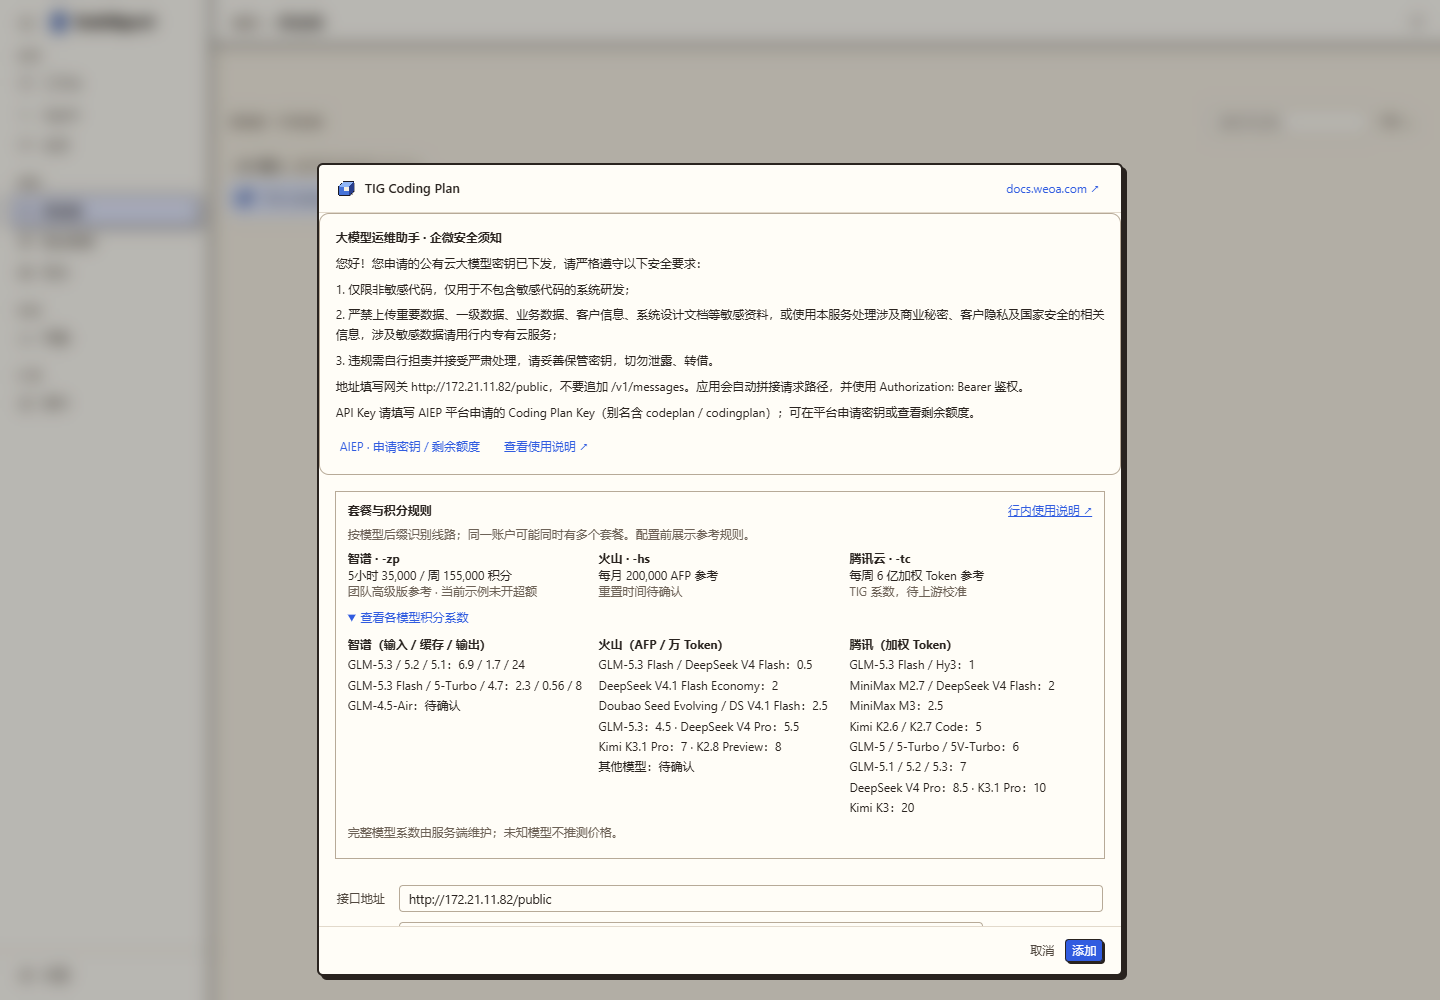
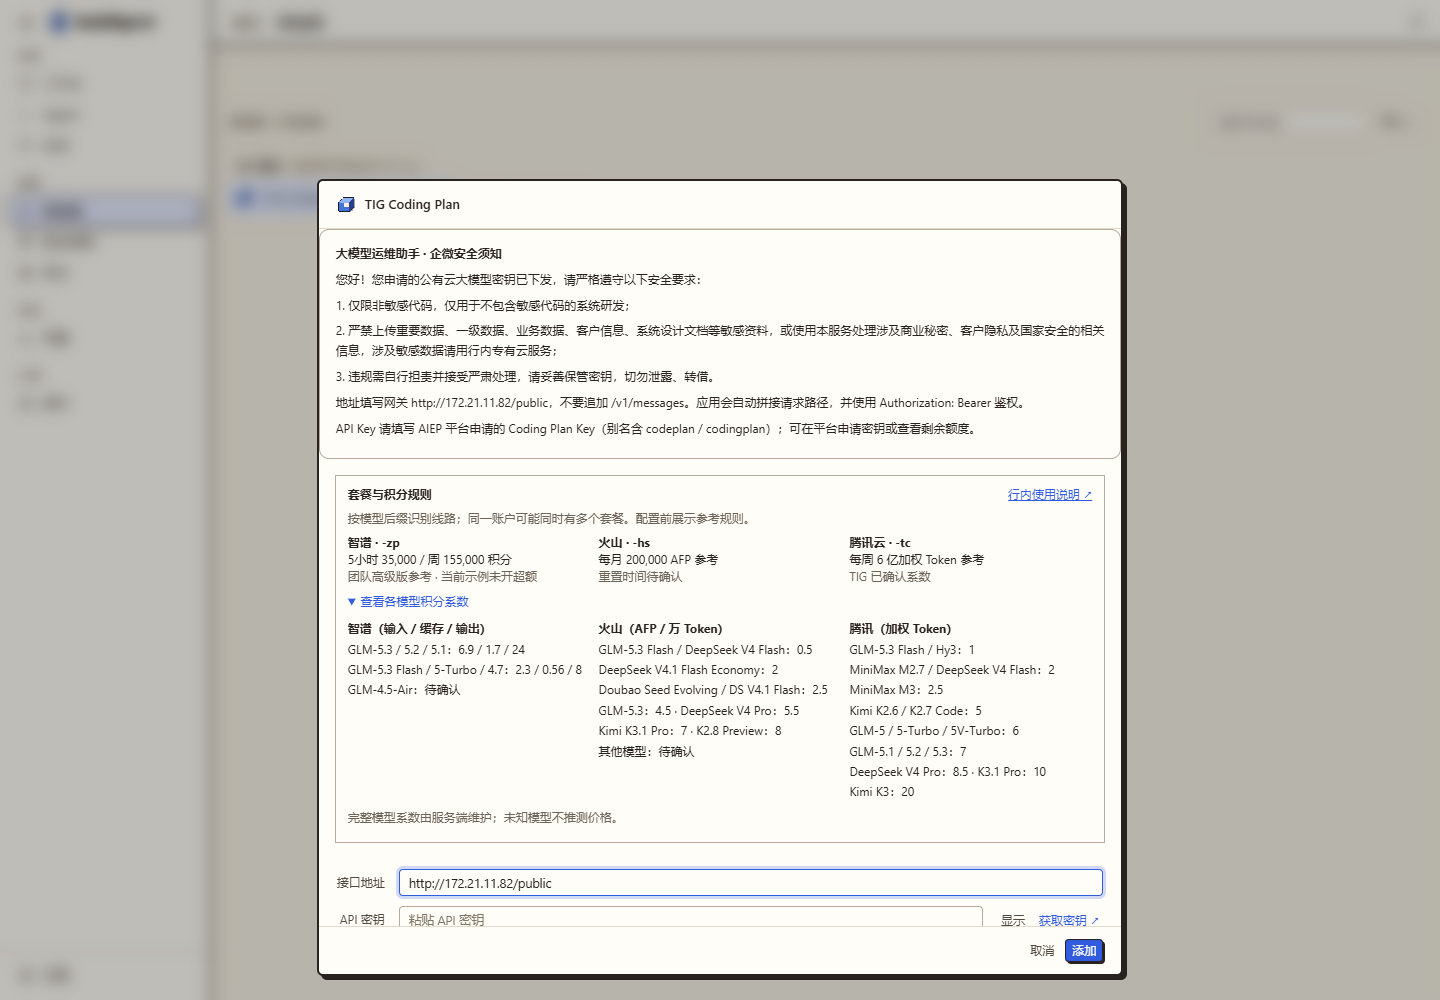
docs: clarify detected TIG model coefficients
Verified the preview states and coefficient expansion in Playwright. Tencent coefficients use the confirmed TIG table; screenshots contain demonstration data. No application build.

Changed region(s): [[0.2188, 0.155, 0.7812, 0.806], [0.2188, 0.806, 0.7812, 0.93], [0.6875, 0.465, 0.75, 0.527]]

diff --git a/design-preview/tig-plan-native-review.html b/design-preview/tig-plan-native-review.html
@@ -1,1 +1,1 @@
-<!doctype html><html lang="zh-CN"><head><meta charset="utf-8"><meta name="viewport" content="width=device-width,initial-scale=1"><title>TIG 配置审查 · 真实界面底稿</title><style>body{margin:0;background:#ebe7dd;color:#28221d;font:14px/1.5 "Microsoft YaHei",sans-serif}.toolbar{display:flex;align-items:center;gap:8px;flex-wrap:wrap;background:#fffcf6;border-bottom:1px solid #b7a995;padding:10px 16px;position:sticky;top:0;z-index:2}.toolbar strong{margin-right:8px}.toolbar button{background:transparent;border:1px solid #c6b8a6;border-radius:3px;padding:6px 10px;cursor:pointer;color:#25211c}.toolbar button.on{background:#315af2;color:white;border-color:#222;box-shadow:2px 2px 0 #222}.meta{margin-left:auto;font-size:12px;color:#6b6054}.canvas{max-width:1440px;margin:12px auto;position:relative;box-shadow:0 2px 10px #b6aa9b}.canvas img{display:block;width:100%;height:auto}.hotspot{position:absolute;left:23.5%;top:60.1%;width:22%;height:3%;border:0;background:transparent;cursor:pointer}.hotspot:focus-visible{outline:2px solid #315af2}.note{max-width:1440px;margin:8px auto 16px;color:#746657;font-size:12px;padding:0 12px}@media(max-width:680px){.meta{width:100%;margin:0}.canvas{margin:0}.toolbar{position:static}}</style></head><body><div class="toolbar"><strong>真实界面底稿 · 审查</strong><button data-screen="config" class="on">添加 TIG</button><button data-screen="config-expanded">展开系数</button><button data-screen="detected">识别成功</button><button data-screen="usage">用量 · 概览</button><span class="meta">真实应用页面 + 演示数据；不连接账户</span></div><div class="canvas"><img id="screen" src="tig-review-real/config.png" alt="TIG 供应商弹窗，含套餐与积分规则演示"><button id="expand" class="hotspot" title="展开模型系数" aria-label="展开模型系数"></button></div><p class="note" id="note">这是基于真实应用界面截取的审查稿。点击上方可切换状态；截图中“查看各模型积分系数”也可点击。数据仅为演示，不代表真实余额。</p><script>const image=document.querySelector('#screen'),hot=document.querySelector('#expand'),buttons=[...document.querySelectorAll('[data-screen]')];function show(name){image.src='tig-review-real/'+name+'.png';image.alt=({config:'真实 TIG 添加弹窗及套餐总览', 'config-expanded':'真实 TIG 弹窗与展开的模型积分系数', detected:'识别成功后展示可能可用的套餐线路',usage:'真实应用用量概览中的套餐统计'})[name];hot.hidden=name!=='config';buttons.forEach(b=>b.classList.toggle('on',b.dataset.screen===name));document.querySelector('#note').textContent=name==='usage'?'用量放在现有“用量 → 概览”；按用户名汇总的滚动用量是估算，并非某个 Key 的真实剩余额度。':'这是基于真实应用界面截取的审查稿，使用演示数据；未连接账户，也未改变应用。'}buttons.forEach(b=>b.onclick=()=>show(b.dataset.screen));hot.onclick=()=>show('config-expanded');</script></body></html>
+<!doctype html><html lang="zh-CN"><head><meta charset="utf-8"><meta name="viewport" content="width=device-width,initial-scale=1"><title>TIG 配置审查 · 真实界面底稿</title><style>body{margin:0;background:#ebe7dd;color:#28221d;font:14px/1.5 "Microsoft YaHei",sans-serif}.toolbar{display:flex;align-items:center;gap:8px;flex-wrap:wrap;background:#fffcf6;border-bottom:1px solid #b7a995;padding:10px 16px;position:sticky;top:0;z-index:2}.toolbar strong{margin-right:8px}.toolbar button{background:transparent;border:1px solid #c6b8a6;border-radius:3px;padding:6px 10px;cursor:pointer;color:#25211c}.toolbar button.on{background:#315af2;color:white;border-color:#222;box-shadow:2px 2px 0 #222}.meta{margin-left:auto;font-size:12px;color:#6b6054}.canvas{max-width:1440px;margin:12px auto;position:relative;box-shadow:0 2px 10px #b6aa9b}.canvas img{display:block;width:100%;height:auto}.hotspot{position:absolute;left:23.5%;top:58.5%;width:22%;height:3%;border:0;background:transparent;cursor:pointer}.hotspot:focus-visible{outline:2px solid #315af2}.note{max-width:1440px;margin:8px auto 16px;color:#746657;font-size:12px;padding:0 12px}@media(max-width:680px){.meta{width:100%;margin:0}.canvas{margin:0}.toolbar{position:static}}</style></head><body><div class="toolbar"><strong>真实界面底稿 · 审查</strong><button data-screen="config" class="on">添加 TIG</button><button data-screen="config-expanded">展开系数</button><button data-screen="detected">识别成功 · 模型系数</button><button data-screen="usage">用量 · 概览</button><span class="meta">真实应用页面 + 演示数据；不连接账户</span></div><div class="canvas"><img id="screen" src="tig-review-real/config.png" alt="TIG 供应商弹窗，含套餐与积分规则演示"><button id="expand" class="hotspot" title="展开模型系数" aria-label="展开模型系数"></button></div><p class="note" id="note">这是基于真实应用界面截取的审查稿。点击上方可切换状态；截图中“查看各模型积分系数”也可点击。数据仅为演示，不代表真实余额。</p><script>const image=document.querySelector('#screen'),hot=document.querySelector('#expand'),buttons=[...document.querySelectorAll('[data-screen]')];function show(name){image.src='tig-review-real/'+name+'.png';image.alt=({config:'真实 TIG 添加弹窗及套餐总览', 'config-expanded':'真实 TIG 弹窗与展开的模型积分系数', detected:'识别成功后按三条线路展示模型及积分系数',usage:'真实应用用量概览中的套餐统计'})[name];hot.hidden=name!=='config';buttons.forEach(b=>b.classList.toggle('on',b.dataset.screen===name));document.querySelector('#note').textContent=name==='usage'?'用量放在现有“用量 → 概览”；按用户名汇总的滚动用量是估算，并非某个 Key 的真实剩余额度。':'这是基于真实应用界面截取的审查稿，使用演示数据；未连接账户，也未改变应用。'}buttons.forEach(b=>b.onclick=()=>show(b.dataset.screen));hot.onclick=()=>show('config-expanded');</script></body></html>
